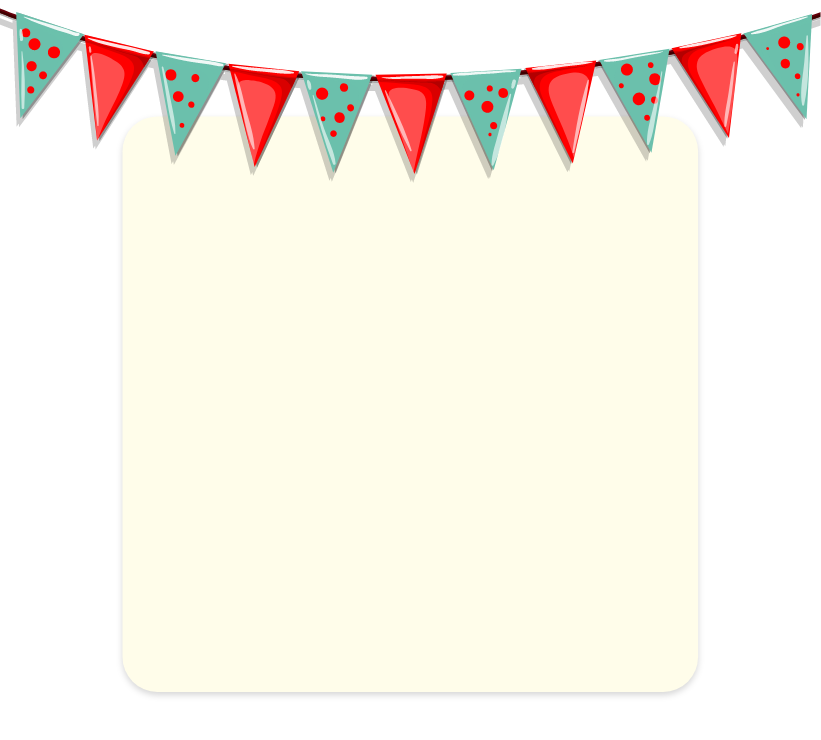
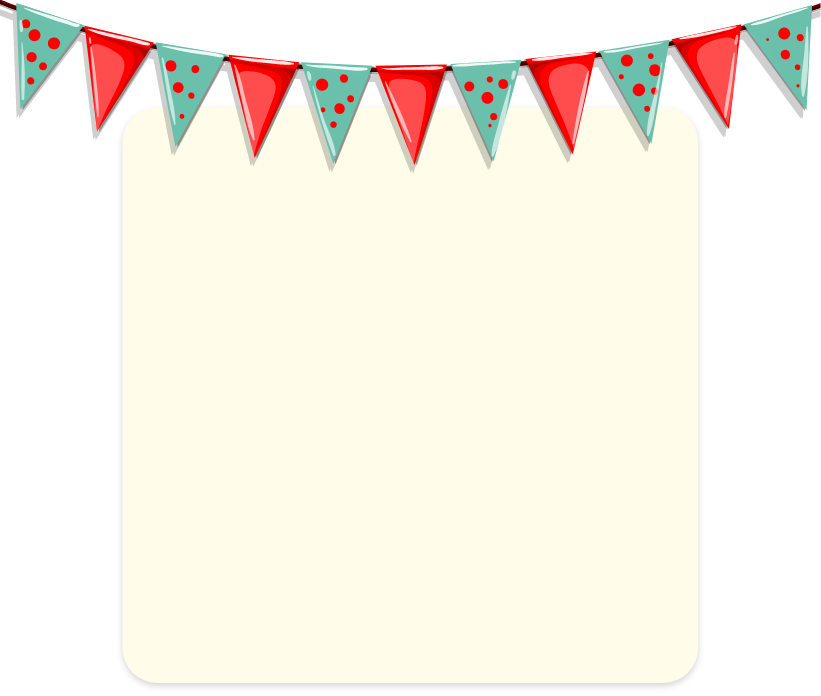
Better bar chart for Total Week score using charts.js + minor fixes

Changed region(s): [[0.0, 0.0, 1.0, 0.181], [0.7917, 0.9655, 0.8222, 0.9957], [0.1827, 0.9655, 0.2132, 0.9957]]

diff --git a/src/components/ScreenTeam.vue b/src/components/ScreenTeam.vue
@@ -27,15 +27,10 @@
         </ul>
       </div>
       <div id="total-week" :class="{hidden: (currentPage != 'total_week')}" >
-        <div id="bar-chart">
-          <div v-for="weekTeam in weekTeams" :key="weekTeam.id" class="bar"
-            :style="{ backgroundColor: weekTeam.color, height: weekTeam.count + '%' }">
-          </div>
-        </div>
-        <div id="bar-chart-caption-container">
-          <div v-for="weekTeam in weekTeams" :key="weekTeam.id" class="chart-caption">
-            <span class="caption-color" :style="'color:'+weekTeam.color"></span>
-            <span class="caption">{{ weekTeam.count }} {{ $t("team.points") }}</span>
+        <img src="../assets/img/boys_finish_line_front.png"/>
+        <div id="total-week-board">
+          <div id="bar-chart-wrapper">
+            <canvas id="bar-chart"></canvas>
           </div>
         </div>
       </div>
@@ -55,6 +50,7 @@
 <script>
 import store from '../services/store.js'
 import Request from '../services/Request.js'
+import Chart from 'chart.js'
 
 export default {
   name: 'ScreenFiche',
@@ -65,6 +61,7 @@ export default {
       topActions: [],
       path: process.env.VUE_APP_API_IMG_ROOT,
       weekTeams: [],
+      weekTeamsGraduationMax: 60,
       teams: [],
       conicGradient: '',
       store
@@ -92,11 +89,66 @@ export default {
     }
     // Score for this week
     this.weekTeams = await Request.teamsTotal(configTeams)
+
     var teamData = {}
+    var dataSets = []
+
     for (i=0; i<this.weekTeams.length; i++) {
       teamData = teamsData.find(teamData => teamData.id === this.weekTeams[i].id)
       this.weekTeams[i].color = teamData.color
+
+      var dataSet = {
+        label: [this.weekTeams[i].count+" "+this.$t('team.points')],
+        data: [this.weekTeams[i].count],
+        backgroundColor: this.weekTeams[i].color,
+        borderSkipped: "left",
+        barPercentage: 1,
+        categoryPercentage: 1,
+        borderColor: '#fff',
+        borderWidth: 1
+      }
+      dataSets.push(dataSet)
     }
+
+    let teamsChartData = {
+      type: 'bar',
+      data: {
+        labels: [this.$t('team.points')],
+        datasets: dataSets,
+      },
+      options: {
+        responsive: true,
+        aspectRatio: 1,
+        lineTension: 1,
+        tooltips: {
+          enabled: false
+        },
+        legend: {
+          position: "bottom",
+          labels: {
+            boxWidth: 15,
+            fontSize: 15,
+            fontColor: "#000",
+          }
+        },
+        scales: {
+          yAxes: [{
+            ticks: {
+              beginAtZero: true,
+              padding: 0,
+            }
+          }],
+          xAxes: [{
+            display: true,
+            ticks: {
+              beginAtZero: false
+            }
+          }],
+        }
+      }
+    }
+
+    this.createChart('bar-chart', teamsChartData);
 
     // Total scores
     this.teams = await Request.teamsTotal()
@@ -115,6 +167,16 @@ export default {
       conicGradientArray.push(this.teams[i].color+' '+(100*this.teams[i].offset/offset)+'%')
     }
     this.conicGradient = conicGradientArray.join(',')
+  },
+  methods: {
+    createChart(chartId, chartData) {
+    const ctx = document.getElementById(chartId);
+    const myChart = new Chart(ctx, {
+      type: chartData.type,
+      data: chartData.data,
+      options: chartData.options,
+    });
+  }
   }
 }
 
@@ -241,37 +303,34 @@ export default {
 
 /* TOTAL WEEK */
 #total-week {
-  background-image: url("../assets/img/total_week_board.png");
-  background-position: top center;
-  background-size: auto 100%;
-  background-repeat: no-repeat;
-
   width: 100%;
   height: 100%;
+  display: flex;
+  align-items: flex-end;
+}
 
-  margin: auto;
+#total-week img {
+  width: 25%;
+  margin-bottom: 30px;
+}
+
+#total-week-board {
+  height: 100%;
+  width: 50%;
+  background-image: url("../assets/img/total_week_board.png");
+  background-position: center;
+  background-size: 100% auto;
+  background-repeat: no-repeat;
   display: flex;
   flex-direction: column;
   justify-content: center;
-  align-items: center;
-  padding: 100px;
 }
 
-#bar-chart {
-  width: 230px;
-  height: 230px;
-  margin: auto;
-  display: flex;
-  margin: auto;
-  flex-direction: row;
-  align-items: flex-end;
-  justify-content: center;
+#bar-chart-wrapper {
+  padding-top: 15%;
+  margin: 0 20%;
 }
 
-#bar-chart .bar {
-  width: 50px;
-  border: 1px solid white;
-}
 
 /* TOTAL */
 #total {
@@ -279,29 +338,30 @@ export default {
   background-position: top center;
   background-size: auto 100%;
   background-repeat: no-repeat;
-
   width: 100%;
   height: 100%;
   margin: auto;
   display: flex;
   flex-direction: column;
-  justify-content: center;
   align-items: center;
-  padding: 100px;
+  justify-content: center;
+  padding-top: 50px;
 }
 /* Pie chart */
 #pie-chart {
   border: 1px solid white;
   width: 230px;
   height: 230px;
-  margin: auto;
   border-radius: 100%;
+  flex: none;
 }
 
-#pie-chart-caption-container, #bar-chart-caption-container {
+#pie-chart-caption-container {
   text-align: center;
-  margin: auto;
-  padding-top: 5px;
+  padding-top: 50px;
+  margin-left: 20px;
+  margin-right: 20px;
+  display: flex;
 }
 
 .chart-caption {
@@ -311,10 +371,9 @@ export default {
 }
 .chart-caption .caption-color:before {
   display: inline-block;
-  border: 1px solid white;
   content: "";
-  width: 10px;
-  height: 10px;
+  width: 12px;
+  height: 12px;
   margin-left: 5px;
   border-radius: 2px;
   background: currentColor;

diff --git a/src/components/ScreenImpact.vue b/src/components/ScreenImpact.vue
@@ -59,14 +59,16 @@
         <!-- animation goes here -->
       </div>
     </div>
-    <div v-if="modal" @click.self="modal=false" class="modal-backdrop">
-      <div v-if="currentPage == 'world'" id="modal-world" class="modal">
+    <div v-if="modal && (currentPage == 'world')" @click.self="modal=false" id="modal-backdrop-world">
+      <div id="modal-world" class="modal">
         <div class="modal-body">
           <h3>{{ $t("impact.world.overshoot_day") }}</h3>
           <div v-html='$t("impact.world.modal")'></div>
         </div>
       </div>
-      <div v-else id="modal-impact" @click="modal=false" class="modal">
+    </div>
+    <div v-else-if="modal && (currentPage == 'impact')" @click.self="modal=false" id="modal-backdrop-impact">
+      <div id="modal-impact" @click="modal=false" class="modal">
         <div class="modal-body">
           <img src="../assets/img/impact_modal.jpg" />
         </div>
@@ -366,21 +368,36 @@ export default {
 }
 
 // Modal
-.modal-backdrop {
+#modal-backdrop-world {
   @include modal-backdrop();
+  z-index: 10;
+}
+
+#modal-backdrop-impact {
+  position: absolute;
+  top: 0;
+  bottom: 0;
+  left: 0;
+  right: 0;
+  display: flex;
+  justify-content: center;
+  align-items: center;
   z-index: 10;
 }
 
 #modal-world {
   background: #80d2e5;
   border-radius: 20px;
-  width: 500px;
+  width: 40%;
   color: $dark-grey;
   font-family: $impact-font-face;
+  font-weight: bold;
 }
 
 #modal-impact {
-  height: 100%;
+  height: auto;
+  width: auto;
+  max-height: 100%;
   max-width: 100%;
   margin: auto;
 }

diff --git a/src/main.js b/src/main.js
@@ -62,9 +62,9 @@ const i18nStrings = {
       overshoot_day: "Jour du dépassement",
       with: "avec SOS Planète",
       without: "sans SOS Planète",
-      modal: `<p>C'est la date à partir de laquelle <span>l'empreinte écologique</span> dépasse <span>la biocapacité</span> de la planète.</p>
+      modal: `<p>C'est la date à partir de laquelle <span style='color:white'>l'empreinte écologique</span> dépasse <span style='color:white'>la biocapacité</span> de la planète.</p>
       <p>L'empreinte écologique caractérise la surface de la Terre utilisée par l'Homme pour pêcher, élever, cultiver, déboiser, construire et brûler des énergies fossiles.</br>
-      <span>La biocapacité</span>, quant à elle, représente la surface de la planète nécessaire pour faire face à ces pressions.</p>
+      <span style='color:white'>La biocapacité</span>, quant à elle, représente la surface de la planète nécessaire pour faire face à ces pressions.</p>
       <p>Depuis les années 1970, la date du Jour du dépassement se dégrade.</br>
       En 1998, elle avait lieu le 30 septembre.</br>
       En 2019, elle arrive deux mois plus tôt: le 29 juillet.</p>

diff --git a/src/components/ScreenFiche.vue b/src/components/ScreenFiche.vue
@@ -18,7 +18,7 @@
           @change="actionCheck($e,action)" />
         <div class="action-card" :for="'action'+action.id">
           <div class="action-icon"><img v-bind:src="path+action.icon"/></div>
-          <div class="action-text">{{ action.name }}</div>
+          <div class="action-text" :title="action.name">{{ action.name }}</div>
           <button @click.prevent="action.modal=true">?</button>
           <div v-if="action.modal" @click.self="action.modal=false" class="modal-backdrop">
             <div class="modal">
@@ -272,7 +272,6 @@ header {
   border-radius: 5px;
   border: none;
   background: $action-list-bg-color;
-
   box-shadow: $button-drop-shadow;
 }
 
@@ -292,6 +291,10 @@ header {
 #actions .action-text {
   padding: 3px;
   flex: 100;
+  margin-right: 30px;
+  white-space: nowrap;
+  overflow: hidden;
+  text-overflow: ellipsis;
 }
 
 #actions .action-card button {
@@ -305,6 +308,10 @@ header {
   font-weight: bold;
   cursor: pointer;
   display: none;
+}
+
+#actions .action-card:hover .action-text {
+  margin-right: 0px;
 }
 
 #actions .action-card:hover button {

diff --git a/src/components/LoginScreen.vue b/src/components/LoginScreen.vue
@@ -214,6 +214,7 @@ button[disabled] {
 #errormsg {
   font-style: italic;
   font-size: $small-font-size;
+  height: $small-font-size;
 }
 
 /* Large screens */
